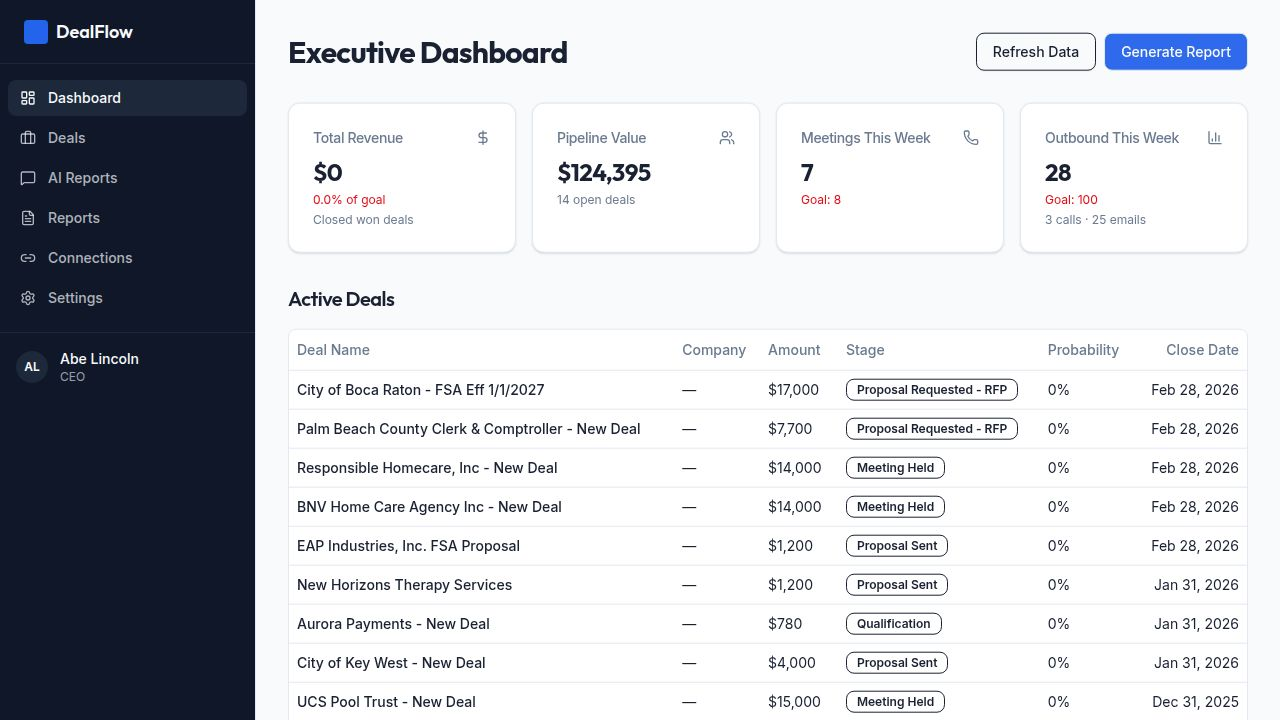
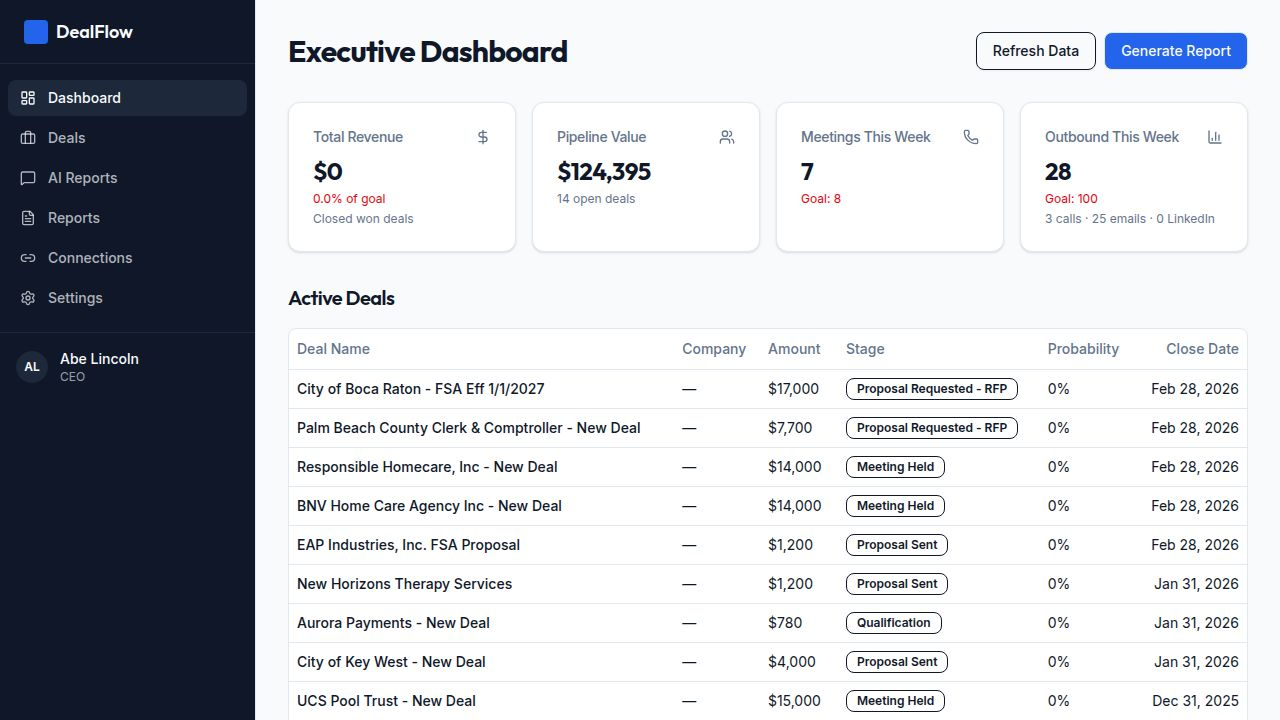
Update sales tracking to correctly log LinkedIn messages from HubSpot
Correctly sync LinkedIn messages from HubSpot's Communications API by fixing the channel type check and ensuring owner mapping is robust.

Replit-Commit-Author: Agent
Replit-Commit-Session-Id: f2d8f73c-1959-4956-aee2-c27b43087f70
Replit-Commit-Checkpoint-Type: intermediate_checkpoint
Replit-Commit-Event-Id: d95a2da3-76c0-4ac6-a3bb-6470b12bfa84
Replit-Commit-Screenshot-Url: https://storage.googleapis.com/screenshot-production-us-central1/26458789-59c0-4600-a0a6-38095df4f4ea/f2d8f73c-1959-4956-aee2-c27b43087f70/JPCsLvf
Replit-Helium-Checkpoint-Created: true

diff --git a/server/services/hubspot.ts b/server/services/hubspot.ts
@@ -142,10 +142,7 @@ export async function syncHubSpot(): Promise<{ success: boolean; recordsProcesse
 
               const subject = eng.properties.hs_call_title || eng.properties.hs_email_subject || eng.properties.hs_task_subject || engType;
               const body = eng.properties.hs_note_body || "";
-              let activityType = engType.toUpperCase().replace(/S$/, "");
-              if (activityType === "NOTE" && (body.toLowerCase().includes("linkedin") || subject.toLowerCase().includes("linkedin"))) {
-                activityType = "LINKEDIN_MESSAGE";
-              }
+              const activityType = engType.toUpperCase().replace(/S$/, "");
               await storage.upsertActivity({
                 hubspotId: eng.id,
                 type: activityType,
@@ -184,13 +181,12 @@ export async function syncHubSpot(): Promise<{ success: boolean; recordsProcesse
           const commData = await commResponse.json();
           for (const comm of commData.results || []) {
             const channelType = (comm.properties.hs_communication_channel_type || "").toUpperCase();
-            if (channelType !== "LINKEDIN") continue;
+            if (channelType !== "LINKEDIN_MESSAGE") continue;
 
             const commOwnerId = comm.properties.hubspot_owner_id || null;
             if (mappedOwnerIds.length > 0 && (!commOwnerId || !mappedOwnerIds.includes(commOwnerId))) continue;
             const ownerName = commOwnerId ? ownerMap[commOwnerId] : null;
             const resolvedCommOwner = (commOwnerId && ownerIdToRepName[commOwnerId]) ? ownerIdToRepName[commOwnerId] : ownerName;
-            if (!resolvedCommOwner) continue;
 
             await storage.upsertActivity({
               hubspotId: `comm_${comm.id}`,
